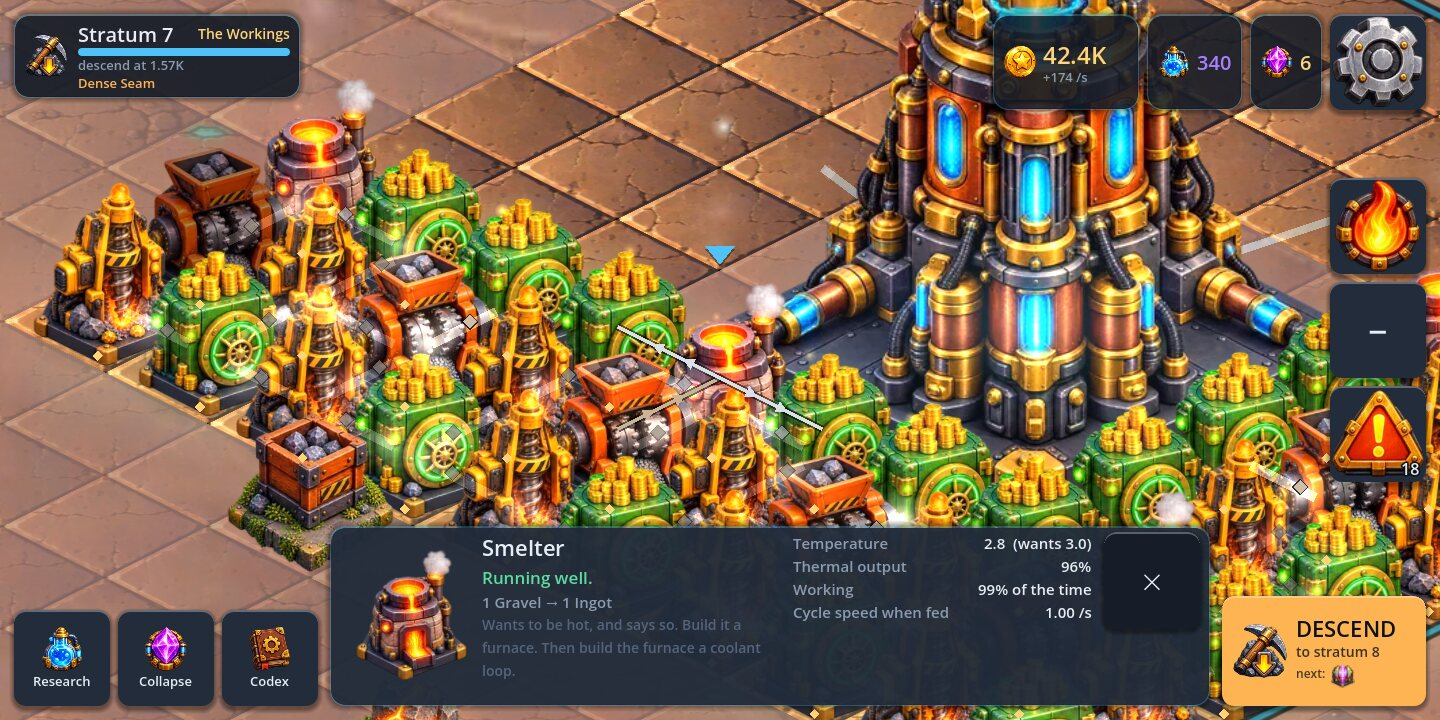
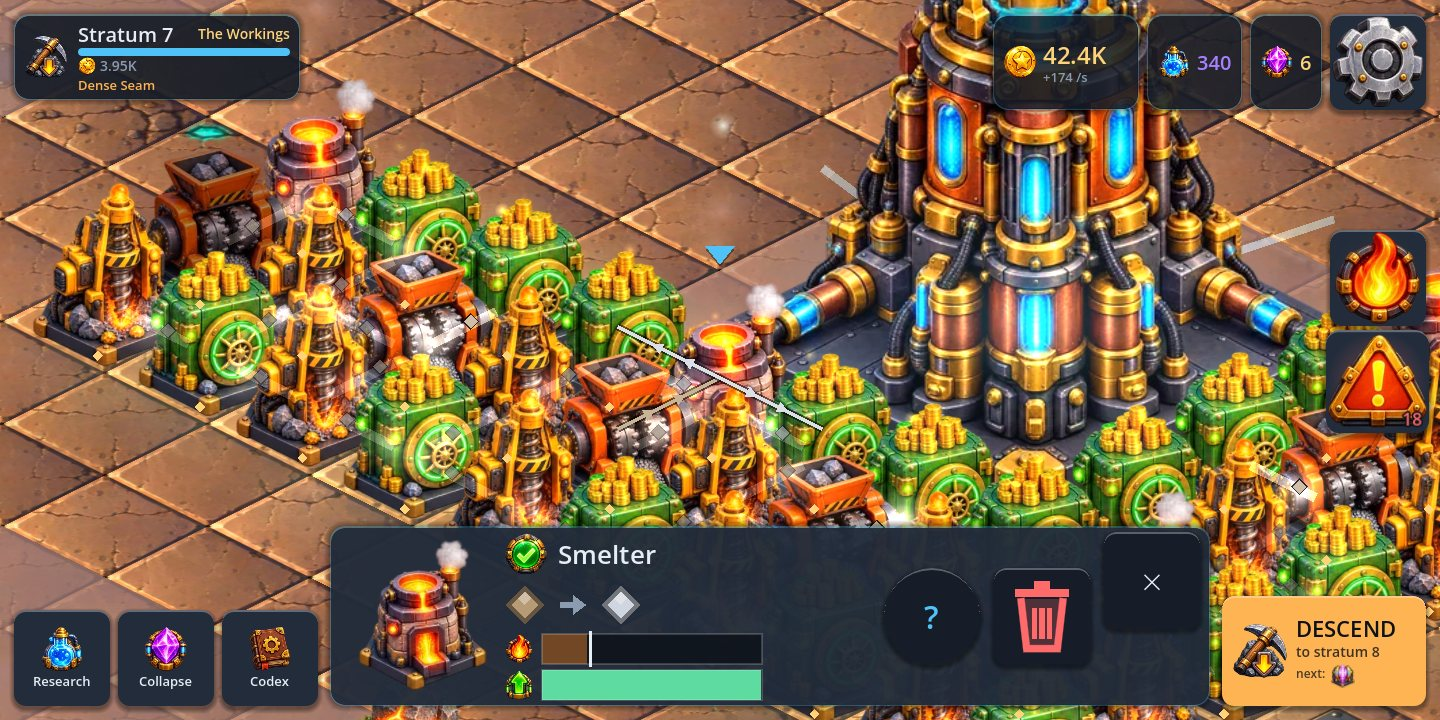
Refresh the README's pictures and words for the new screens
The first screen, the mid-game shaft, the whole board and the close-up are
re-shot on the current build, and a Research grid and Codex page sit beside
the paragraph about panels. The words now say what the screens do: the
arrow, the bin key, the swelling warning key, the flame key that glows
before it is pressed, the Codex filed by machine group, the 44 x 44 grid,
the pace, and modifiers explained on the stratum card.

diff --git a/README.md b/README.md
@@ -25,7 +25,7 @@ factory has not reached is strewn with crystals, ore and rubble, and the
 growing yard clears them as it goes.
 
 Drag to pan, pinch or wheel to zoom, tap to place, tap a machine to select
-it and drag it to move it. The
+it and drag it to move it, or press the bin on its panel to remove it. The
 simulation underneath is the one the tests below check; the screen only reads
 it. ([docs/ART.md](docs/ART.md) is the visual system,
 [docs/AUDIT.md](docs/AUDIT.md) section 0 what it was measured to cost.)
@@ -44,13 +44,24 @@ are no further tutorial windows; new machines and new strata are for
 discovering.
 
 The Foreman -- a young miner at the edge of the screen, never over the
-board -- says each line, and after the chapter he goes quiet except for a new
-stratum and the first machine that overheats in it.
+board -- says each line, and a yellow arrow bobs over the thing to tap. After
+the chapter he goes quiet except for a new stratum and the first machine that
+overheats in it.
 
-The **Codex** is there if you want it, one key at the bottom left. Every page
-is a title, one line of what to look at, two sentences, and a **two-to-five
-tile board that is actually running** — a real `Simulation` with the same
-machines and the same status colours as the game. Put a Boiler
+Every panel shows before it tells: pictures first, a few words, and the full
+sentence behind a **?** key. Research is a grid of cards, each with a picture
+of what it acts on, its level and its price on the key that buys it.
+
+| Research | Codex |
+|---|---|
+| ![Research as a grid of picture cards, three to a row](docs/media/research.jpg) | ![The Codex page for the Makers: each machine big, with what goes in and what comes out](docs/media/codex.jpg) |
+
+The **Codex** is there if you want it, one key at the bottom left. It is filed
+by the same seven machine groups as the tray -- Diggers, Makers, Sellers,
+Heaters, Coolers, Boosters, Research -- and shows each machine big and moving,
+with one plain line and what goes in and comes out. Its "How it works" pages
+each run a **small board that is actually running** — a real `Simulation`
+with the same machines and the same status colours as the game. Put a Boiler
 next to a Smelter on a Codex page and the Smelter's pip goes green and its
 progress bar speeds up, because that is what happens. A help page that
 describes a rule can be wrong; a help page that runs the rule cannot.
@@ -72,13 +83,15 @@ directions along the chain**:
 Each state is a different glyph as well as a different colour, so the board
 still works without colour vision. A badge only appears once a state has held
 for a second and a half, and only on the machine where a jam starts -- not on
-every machine queued behind it. The warning key counts what is wrong and each
-tap glides the camera to the next culprit. Tapping a machine opens its panel
+every machine queued behind it. The warning key counts what is wrong, swells
+more insistently as the count grows (never flashing), and each tap glides the
+camera to the next culprit. Tapping a machine opens its panel
 where the machine tray was, below the board, and draws every connection in
 and out of it on top of the world.
 
-The heat button relabels every tile with how far it is from the temperature it
-personally wants, as a signed number. Every machine in this game wants a
+The heat button glows before it is pressed when some machine is too hot, or
+shows frost when one is too cold. Pressed, it relabels every tile with how far
+it is from the temperature it personally wants, as a signed number. Every machine in this game wants a
 different temperature, so an absolute heat map answers the wrong question.
 
 None of this was invented here. It came out of
@@ -87,7 +100,7 @@ actually ship and what their players actually complain about.
 
 ## The loop
 
-A 7×10 grid. Machines have inputs and outputs and feed **whatever is
+A 44 x 44 grid, opened ring by ring round the Core. Machines have inputs and outputs and feed **whatever is
 orthogonally next to them** — there are no belts to draw, because drawing belts
 on a phone is miserable. What makes it a puzzle instead of a packing exercise
 is heat: every machine emits it, half of it bleeds into each neighbour, and
@@ -100,14 +113,15 @@ Then:
 |---|---|
 | 10 seconds | move one tile, watch the credits-per-second change |
 | 1 minute | the first drill → crusher → vault chain pays for the next drill |
-| 10 minutes | the quota falls, you descend, the rock is richer and hotter |
-| first session | three or four strata, and the first machine that only matters because of what it is next to |
+| 10 minutes | the quota falls, you descend, the yard widens, the rock is richer and hotter |
+| first session | the first strata take two or three minutes each, the middle ones three or four, and the first machine that only matters because of what it is next to arrives |
 | next day | offline production banked while you were away |
 | first week | the component chain, Labs, and the research tree |
 | long term | collapse the shaft for Cores, which are the only thing that survives, and start again deeper and faster |
 
 Every stratum is generated from its depth — the same stratum 14 for everybody,
-no server involved — with up to two modifiers drawn from a table of twelve.
+no server involved — with up to two modifiers drawn from a table of twelve,
+explained by a tap on the stratum card.
 *Thermal Vent + Brittle Rock* is a different board from *Insulating Clay +
 Resonant*, and the layout that was right for one is wrong for the other.
 
